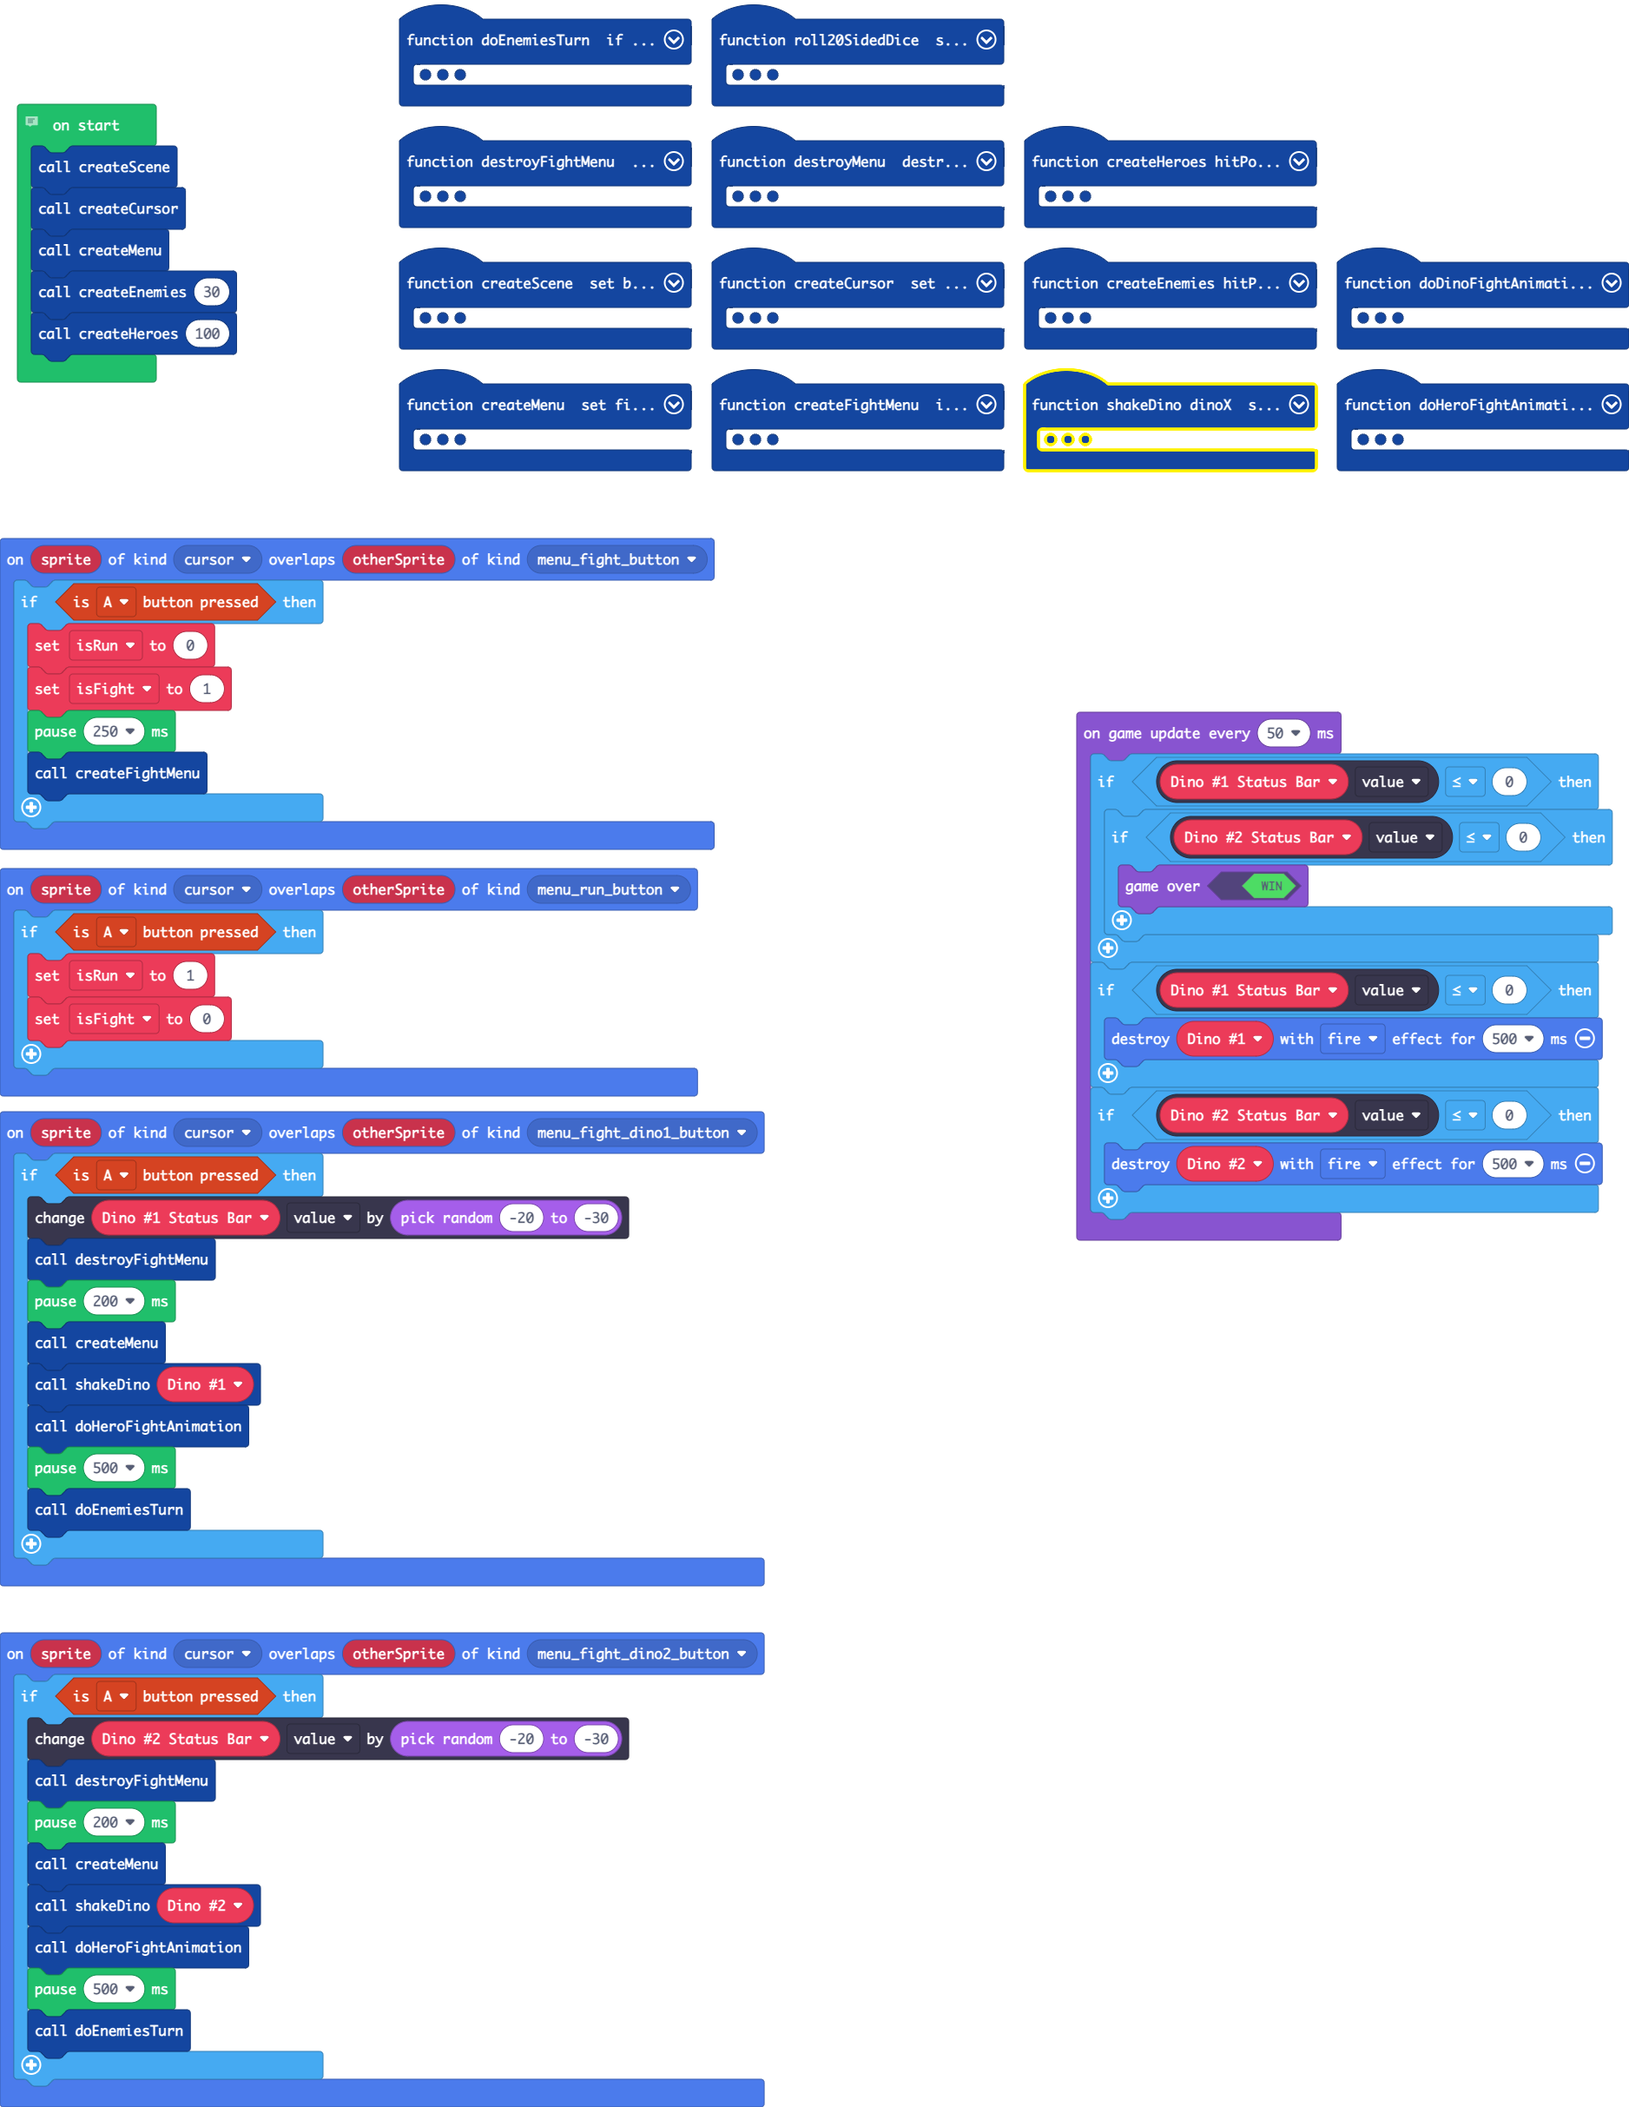
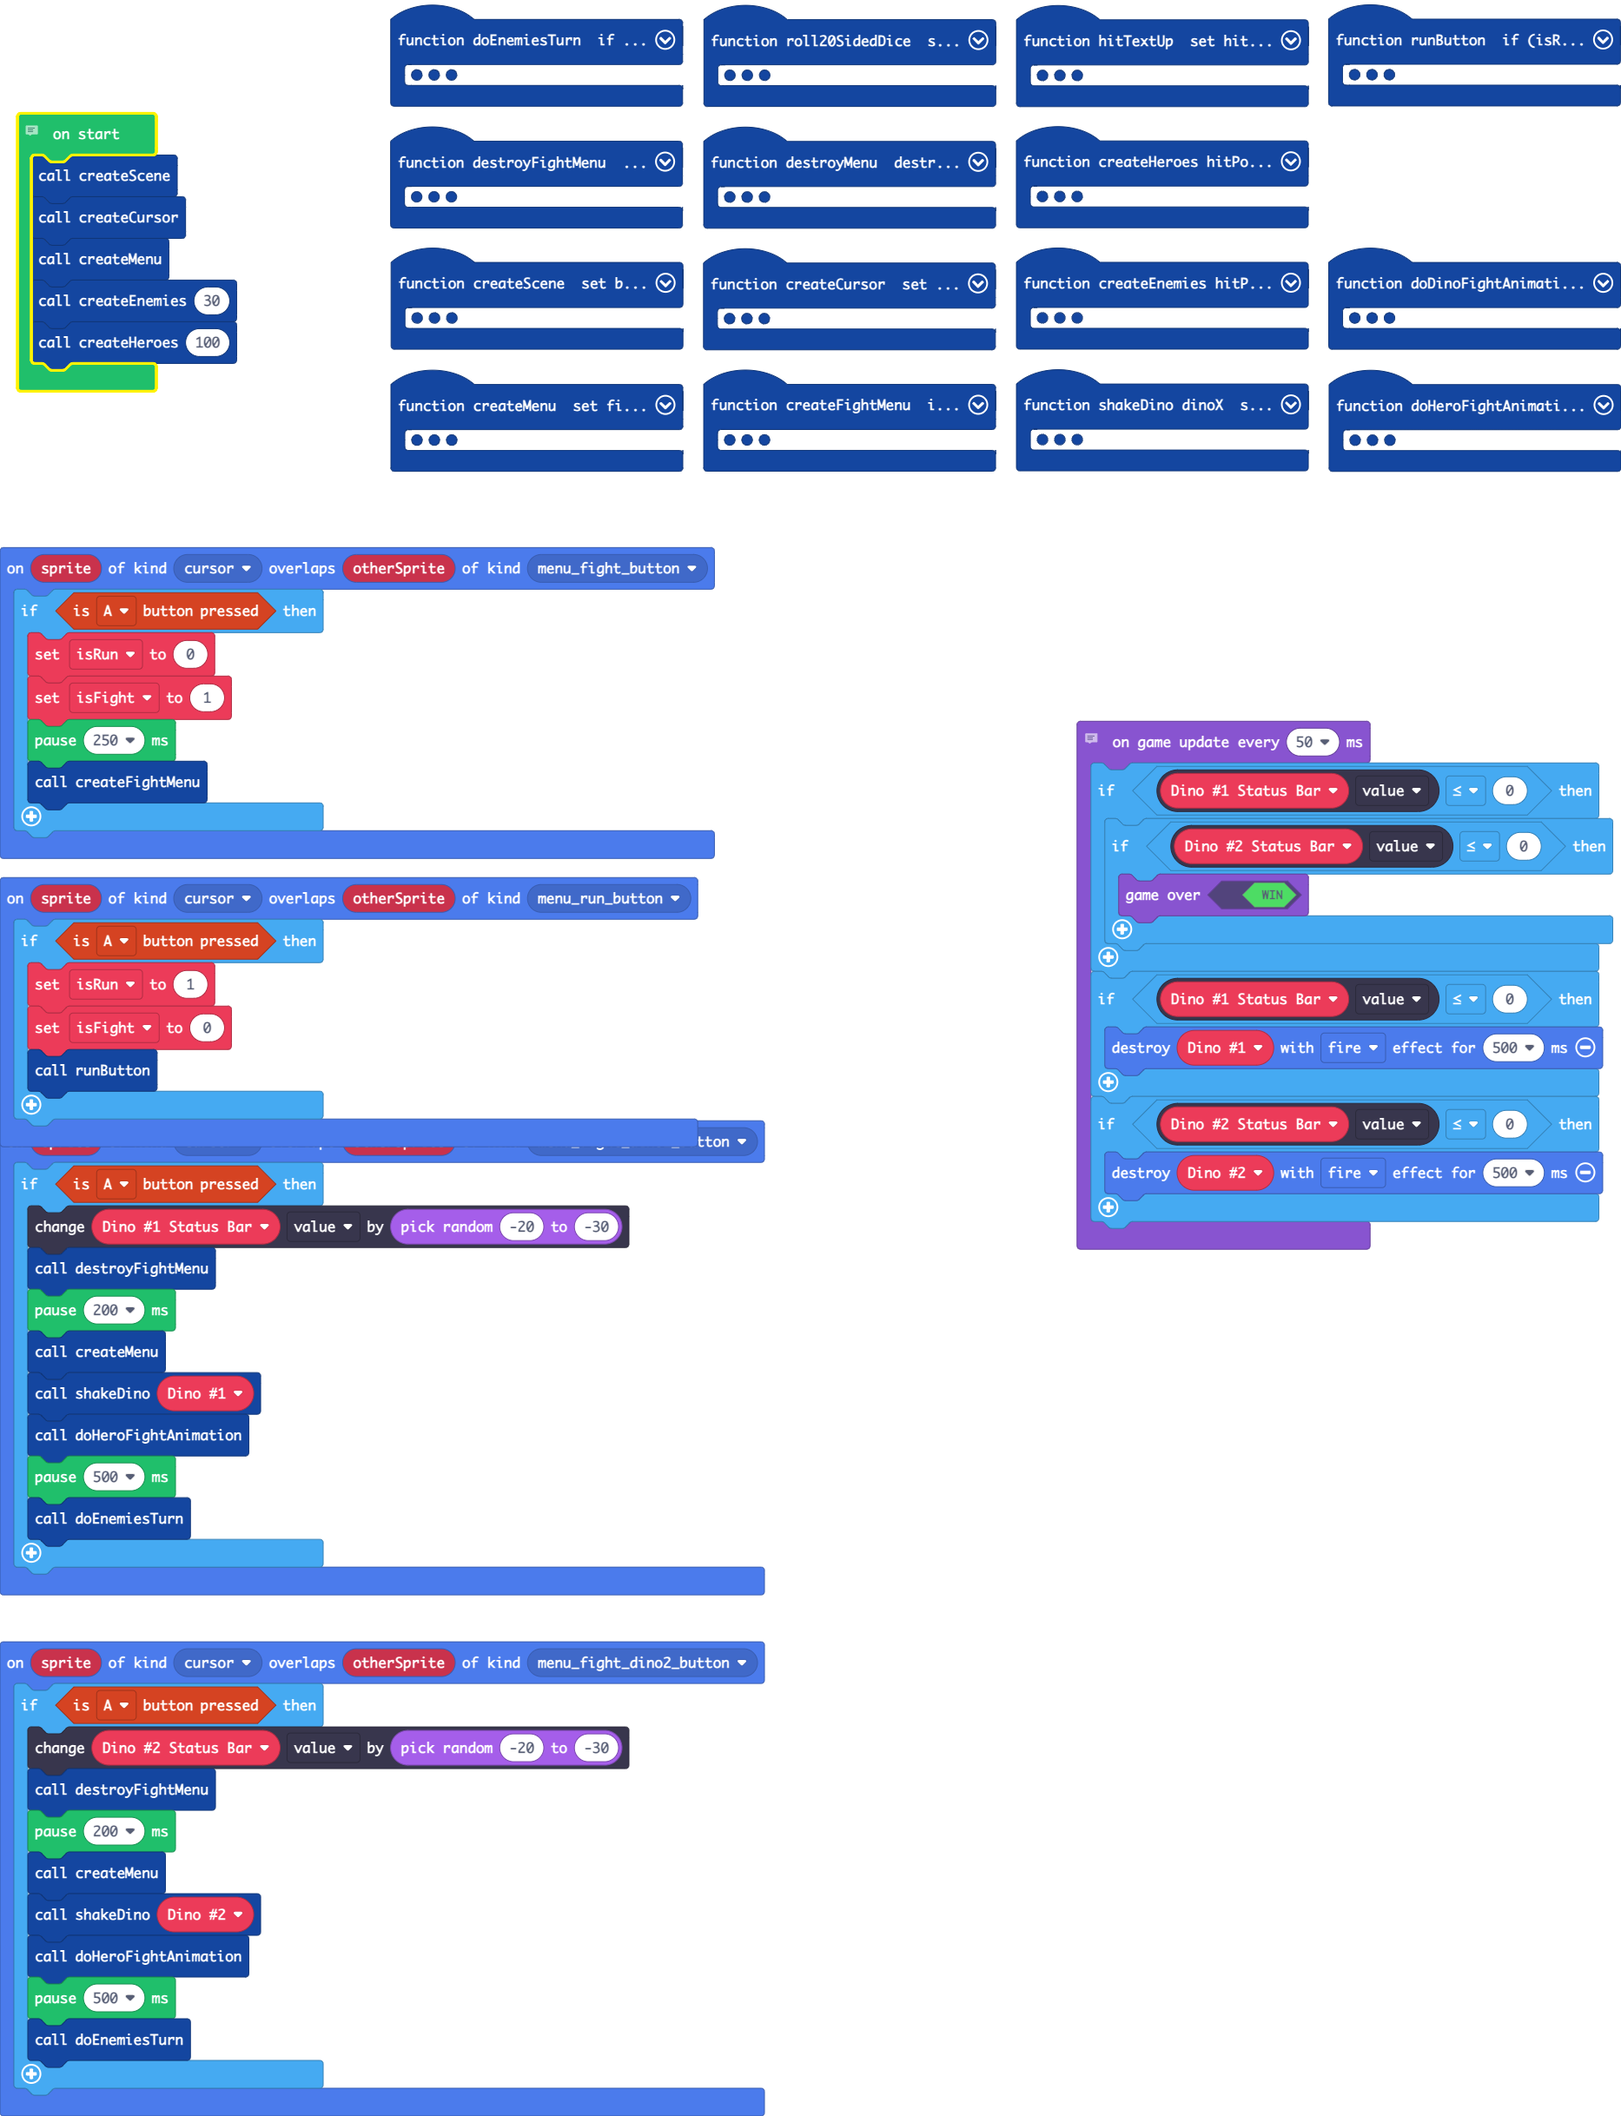
Gave "Run" button functionality and organized funtion "doEnemiesTurn"

diff --git a/main.ts b/main.ts
@@ -10,25 +10,17 @@ function doEnemiesTurn () {
     if (Dino_1_Status_Bar.value > 0) {
         roll20SidedDice()
         if (twentySidedDice > 2) {
-            hitText = textsprite.create("Hit")
-            tiles.placeOnTile(hitText, tiles.getTileLocation(1, 4))
-            animation.runMovementAnimation(
-            hitText,
-            animation.animationPresets(animation.easeUp),
-            1000,
-            false
-            )
             doDinoFightAnimation(Dino_1)
+            hitTextUp()
             scene.cameraShake(4, 500)
-            pause(500)
+            pause(1000)
         }
     }
-    pause(1000)
     if (Dino_2_Status_Bar.value > 0) {
         roll20SidedDice()
         if (twentySidedDice > 2) {
             doDinoFightAnimation(Dino_2)
-            pause(500)
+            hitTextUp()
             scene.cameraShake(4, 500)
         }
     }
@@ -202,6 +194,7 @@ sprites.onOverlap(SpriteKind.cursor, SpriteKind.menu_run_button, function (sprit
     if (controller.A.isPressed()) {
         isRun = 1
         isFight = 0
+        runButton()
     }
 })
 function shakeDino (dinoX: Sprite) {
@@ -212,6 +205,102 @@ function shakeDino (dinoX: Sprite) {
     dinoX.setVelocity(50, 0)
     pause(103)
     dinoX.setVelocity(0, 0)
+}
+function runButton () {
+    if (isRun == 1) {
+        roll20SidedDice()
+        if (twentySidedDice > 2) {
+            destroyMenu()
+            animation.runImageAnimation(
+            heros,
+            [img`
+                . . . . . . f f f f f f . . . . 
+                . . . . f f e e e e f 2 f . . . 
+                . . . f f e e e e f 2 2 2 f . . 
+                . . . f e e e f f e e e e f . . 
+                . . . f f f f e e 2 2 2 2 e f . 
+                . . . f e 2 2 2 f f f f e 2 f . 
+                . . f f f f f f f e e e f f f . 
+                . . f f e 4 4 e b f 4 4 e e f . 
+                . . f e e 4 d 4 1 f d d e f . . 
+                . . . f e e e 4 d d d d f . . . 
+                . . . . f f e e 4 4 4 e f . . . 
+                . . . . . 4 d d e 2 2 2 f . . . 
+                . . . . . e d d e 2 2 2 f . . . 
+                . . . . . f e e f 4 5 5 f . . . 
+                . . . . . . f f f f f f . . . . 
+                . . . . . . . f f f . . . . . . 
+                `,img`
+                . . . . . . . . . . . . . . . . 
+                . . . . . . f f f f f f . . . . 
+                . . . . f f e e e e f 2 f . . . 
+                . . . f f e e e e f 2 2 2 f . . 
+                . . . f e e e f f e e e e f . . 
+                . . . f f f f e e 2 2 2 2 e f . 
+                . . . f e 2 2 2 f f f f e 2 f . 
+                . . f f f f f f f e e e f f f . 
+                . . f f e 4 4 e b f 4 4 e e f . 
+                . . f e e 4 d 4 1 f d d e f . . 
+                . . . f e e e e e d d d f . . . 
+                . . . . . f 4 d d e 4 e f . . . 
+                . . . . . f e d d e 2 2 f . . . 
+                . . . . f f f e e f 5 5 f f . . 
+                . . . . f f f f f f f f f f . . 
+                . . . . . f f . . . f f f . . . 
+                `,img`
+                . . . . . . f f f f f f . . . . 
+                . . . . f f e e e e f 2 f . . . 
+                . . . f f e e e e f 2 2 2 f . . 
+                . . . f e e e f f e e e e f . . 
+                . . . f f f f e e 2 2 2 2 e f . 
+                . . . f e 2 2 2 f f f f e 2 f . 
+                . . f f f f f f f e e e f f f . 
+                . . f f e 4 4 e b f 4 4 e e f . 
+                . . f e e 4 d 4 1 f d d e f . . 
+                . . . f e e e 4 d d d d f . . . 
+                . . . . f f e e 4 4 4 e f . . . 
+                . . . . . 4 d d e 2 2 2 f . . . 
+                . . . . . e d d e 2 2 2 f . . . 
+                . . . . . f e e f 4 5 5 f . . . 
+                . . . . . . f f f f f f . . . . 
+                . . . . . . . f f f . . . . . . 
+                `,img`
+                . . . . . . . . . . . . . . . . 
+                . . . . . . f f f f f f . . . . 
+                . . . . f f e e e e f 2 f . . . 
+                . . . f f e e e e f 2 2 2 f . . 
+                . . . f e e e f f e e e e f . . 
+                . . . f f f f e e 2 2 2 2 e f . 
+                . . . f e 2 2 2 f f f f e 2 f . 
+                . . f f f f f f f e e e f f f . 
+                . . f f e 4 4 e b f 4 4 e e f . 
+                . . f e e 4 d 4 1 f d d e f . . 
+                . . . f e e e 4 d d d d f . . . 
+                . . . . 4 d d e 4 4 4 e f . . . 
+                . . . . e d d e 2 2 2 2 f . . . 
+                . . . . f e e f 4 4 5 5 f f . . 
+                . . . . f f f f f f f f f f . . 
+                . . . . . f f . . . f f f . . . 
+                `],
+            200,
+            true
+            )
+            heros.setVelocity(50, 0)
+            pause(1000)
+            game.setGameOverMessage(true, "YOU RAN")
+            game.setGameOverEffect(true, effects.none)
+            game.gameOver(true)
+        } else {
+            hitText = textsprite.create("Run Failed")
+            tiles.placeOnTile(hitText, tiles.getTileLocation(1, 4))
+            animation.runMovementAnimation(
+            hitText,
+            animation.animationPresets(animation.easeUp),
+            2000,
+            false
+            )
+        }
+    }
 }
 function createEnemies (hitPoints: number) {
     Dino_1 = sprites.create(img`
@@ -503,6 +592,16 @@ function destroyMenu () {
     sprites.destroy(fight)
     sprites.destroy(run)
 }
+function hitTextUp () {
+    hitText = textsprite.create("Hit")
+    tiles.placeOnTile(hitText, tiles.getTileLocation(1, 4))
+    animation.runMovementAnimation(
+    hitText,
+    animation.animationPresets(animation.easeUp),
+    2000,
+    false
+    )
+}
 function createScene () {
     scene.setBackgroundColor(8)
     scene.setBackgroundImage(img`
@@ -632,48 +731,52 @@ function createScene () {
 function createFightMenu () {
     if (isFight == 1) {
         destroyMenu()
-        Dino_1_Button = sprites.create(img`
-            ..................................................
-            ..................................................
-            ..................................................
-            ..................................................
-            .11111....11...................11.11...11.........
-            .11..11.......................1111111.111.........
-            .11...11.111..11111...1111.....11.11...11.........
-            .11...11..11..11..11.11..11....11.11...11.........
-            .11...11..11..11..11.11..11....11.11...11.........
-            .11..11...11..11..11.11..11...1111111..11.........
-            .11111...1111.11..11..1111.....11.11..1111........
-            ..................................................
-            ..................................................
-            ..................................................
-            ..................................................
-            ..................................................
-            `, SpriteKind.menu_fight_dino1_button)
-        tiles.placeOnTile(Dino_1_Button, tiles.getTileLocation(6, 4))
-        Dino_2_Button = sprites.create(img`
-            ..................................................
-            ..................................................
-            ..................................................
-            ..................................................
-            .11111....11...................11.11...11111......
-            .11..11.......................1111111.11...11.....
-            .11...11.111..11111...1111.....11.11......111.....
-            .11...11..11..11..11.11..11....11.11....1111......
-            .11...11..11..11..11.11..11....11.11...1111.......
-            .11..11...11..11..11.11..11...1111111.111.........
-            .11111...1111.11..11..1111.....11.11..1111111.....
-            ..................................................
-            ..................................................
-            ..................................................
-            ..................................................
-            ..................................................
-            `, SpriteKind.menu_fight_dino2_button)
-        tiles.placeOnTile(Dino_2_Button, tiles.getTileLocation(6, 5))
+        if (Dino_1_Status_Bar.value > 0) {
+            Dino_1_Button = sprites.create(img`
+                ..................................................
+                ..................................................
+                ..................................................
+                ..................................................
+                .11111....11...................11.11...11.........
+                .11..11.......................1111111.111.........
+                .11...11.111..11111...1111.....11.11...11.........
+                .11...11..11..11..11.11..11....11.11...11.........
+                .11...11..11..11..11.11..11....11.11...11.........
+                .11..11...11..11..11.11..11...1111111..11.........
+                .11111...1111.11..11..1111.....11.11..1111........
+                ..................................................
+                ..................................................
+                ..................................................
+                ..................................................
+                ..................................................
+                `, SpriteKind.menu_fight_dino1_button)
+            tiles.placeOnTile(Dino_1_Button, tiles.getTileLocation(6, 4))
+        }
+        if (Dino_2_Status_Bar.value > 0) {
+            Dino_2_Button = sprites.create(img`
+                ..................................................
+                ..................................................
+                ..................................................
+                ..................................................
+                .11111....11...................11.11...11111......
+                .11..11.......................1111111.11...11.....
+                .11...11.111..11111...1111.....11.11......111.....
+                .11...11..11..11..11.11..11....11.11....1111......
+                .11...11..11..11..11.11..11....11.11...1111.......
+                .11..11...11..11..11.11..11...1111111.111.........
+                .11111...1111.11..11..1111.....11.11..1111111.....
+                ..................................................
+                ..................................................
+                ..................................................
+                ..................................................
+                ..................................................
+                `, SpriteKind.menu_fight_dino2_button)
+            tiles.placeOnTile(Dino_2_Button, tiles.getTileLocation(6, 5))
+        }
     }
 }
 // TODO:
-// - Implement run away animation where hero goes to the right off screen
+// - Implement run-away animation where hero goes to the right off screen - Done (Needs organizing)
 // - Create Magic button on Main Menu and create Magic Menu
 // - Hero to take a hit point change from dino
 // - Create Item button on Main Menu and create Item Menu
@@ -696,6 +799,7 @@ function createFightMenu () {
 let run: Sprite = null
 let fight: Sprite = null
 let cursor: Sprite = null
+let hitText: TextSprite = null
 let isFight = 0
 let isRun = 0
 let heroStatusBar: StatusBarSprite = null
@@ -705,7 +809,6 @@ let Dino_1_Button: Sprite = null
 let Dino_2: Sprite = null
 let Dino_2_Status_Bar: StatusBarSprite = null
 let Dino_1: Sprite = null
-let hitText: TextSprite = null
 let twentySidedDice = 0
 let Dino_1_Status_Bar: StatusBarSprite = null
 createScene()
@@ -713,6 +816,7 @@ createCursor()
 createMenu()
 createEnemies(30)
 createHeroes(100)
+// - 50ms (or 1/20th of a second) is known as a "tick"
 game.onUpdateInterval(50, function () {
     if (Dino_1_Status_Bar.value <= 0) {
         if (Dino_2_Status_Bar.value <= 0) {

diff --git a/tilemap.g.ts b/tilemap.g.ts
@@ -20,14 +20,23 @@ namespace myTiles {
     helpers._registerFactory("tilemap", function(name: string) {
         switch(helpers.stringTrim(name)) {
             case "level1":
[1 lines of base64/hex data omitted]
-. . . . . . . . . . 
-. . . . . . . . . . 
-. . . . . . . . . . 
-. . . . 2 2 2 2 2 2 
-. . . . 2 . . . . . 
-. . . . 2 . . . . . 
-. . . . 2 . . . . . 
+            case "level1":return tiles.createTilemap(hex`1000100000000000000000000000000000000000000000000000000000000000000000000000000000000000000000000000000000000000000000000000000000000000000000000000000000000000000000000000000000000000000000000000000000000000000000000000000000000000000000000000000000000000000000000000000000000000000000000000000000000000000000000000000000000000000000000000000000000000000000000000000000000000000000000000000000000000000000000000000000000000000000000000000000000000000000000000000000000000000000000000000000000000000000000000000000000000`, img`
+. . . . . . . . . . . . . . . . 
+. . . . . . . . . . . . . . . . 
+. . . . . . . . . . . . . . . . 
+. . . . 2 2 2 2 2 2 2 . . . . . 
+. . . . 2 . . . . . 2 . . . . . 
+. . . . 2 . . . . . 2 . . . . . 
+. . . . 2 . . . . . 2 . . . . . 
+. . . . 2 2 2 2 2 2 2 . . . . . 
+. . . . . . . . . . . . . . . . 
+. . . . . . . . . . . . . . . . 
+. . . . . . . . . . . . . . . . 
+. . . . . . . . . . . . . . . . 
+. . . . . . . . . . . . . . . . 
+. . . . . . . . . . . . . . . . 
+. . . . . . . . . . . . . . . . 
+. . . . . . . . . . . . . . . . 
 `, [myTiles.transparency16], TileScale.Sixteen);
         }
         return null;
